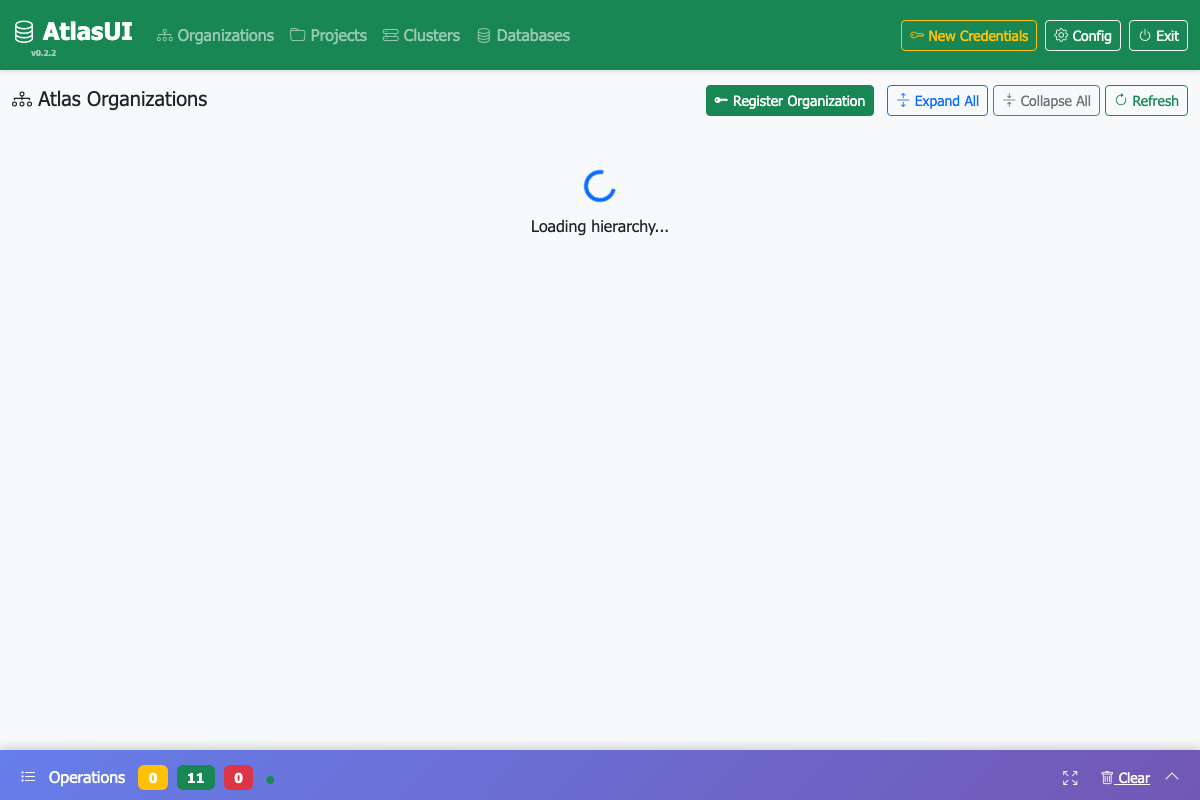
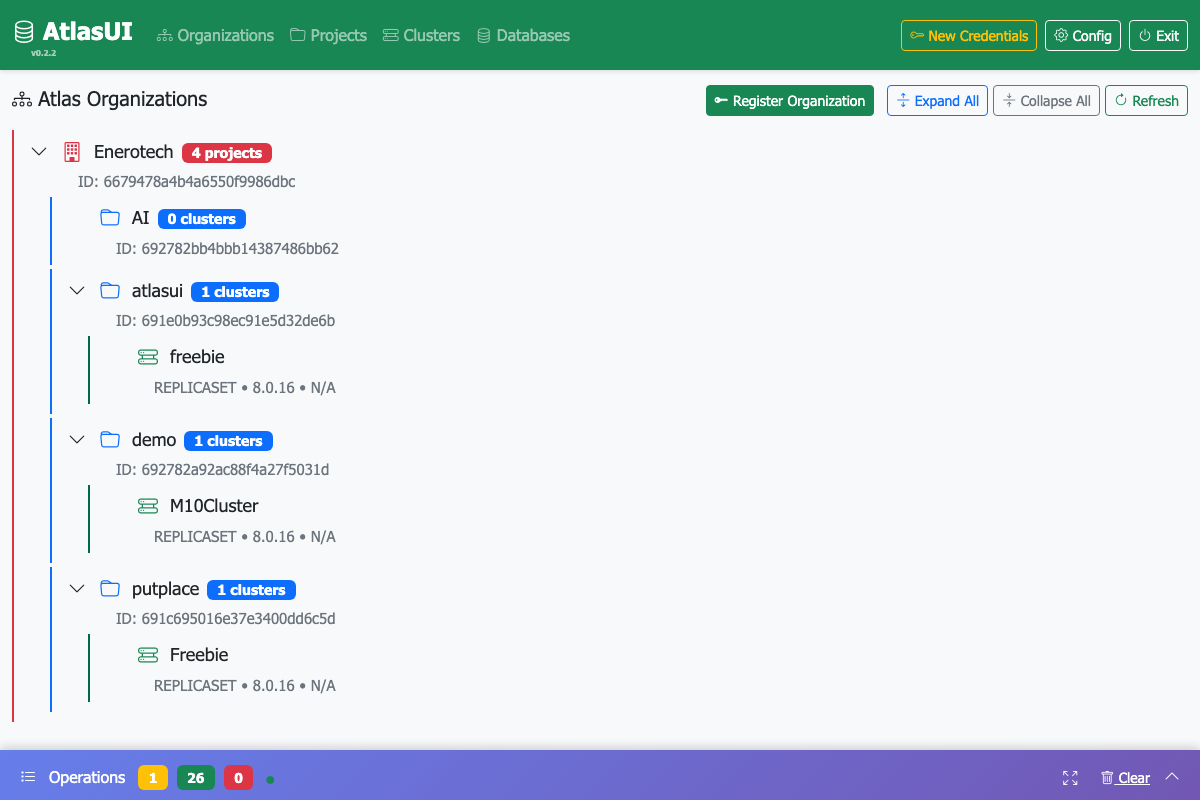
UI improvements: expanded tree view and modal backdrop fix
- Organizations page now opens with tree expanded by default
- Fix modal backdrop not being removed after cluster create/delete
- Update documentation screenshots with current data

🤖 Generated with [Claude Code](https://claude.com/claude-code)

diff --git a/atlasui/templates/all_clusters.html b/atlasui/templates/all_clusters.html
@@ -2207,8 +2207,15 @@ async function createCluster() {
         clusterConfig.mongoDBMajorVersion = mongoDBVersion;
     }
 
-    // Close the modal immediately
-    bootstrap.Modal.getInstance(document.getElementById('createClusterModal')).hide();
+    // Close the modal immediately and clean up backdrop
+    const createModalEl = document.getElementById('createClusterModal');
+    const createModalInstance = bootstrap.Modal.getInstance(createModalEl) || bootstrap.Modal.getOrCreateInstance(createModalEl);
+    createModalInstance.hide();
+    // Clean up any stale backdrops
+    document.querySelectorAll('.modal-backdrop').forEach(el => el.remove());
+    document.body.classList.remove('modal-open');
+    document.body.style.removeProperty('overflow');
+    document.body.style.removeProperty('padding-right');
 
     try {
         console.log('Creating cluster with config:', JSON.stringify(clusterConfig, null, 2));
@@ -2303,8 +2310,15 @@ async function deleteCluster() {
     // Hide error
     errorDiv.classList.add('d-none');
 
-    // Close the modal immediately
-    bootstrap.Modal.getInstance(document.getElementById('deleteClusterModal')).hide();
+    // Close the modal immediately and clean up backdrop
+    const deleteModalEl = document.getElementById('deleteClusterModal');
+    const deleteModalInstance = bootstrap.Modal.getInstance(deleteModalEl) || bootstrap.Modal.getOrCreateInstance(deleteModalEl);
+    deleteModalInstance.hide();
+    // Clean up any stale backdrops
+    document.querySelectorAll('.modal-backdrop').forEach(el => el.remove());
+    document.body.classList.remove('modal-open');
+    document.body.style.removeProperty('overflow');
+    document.body.style.removeProperty('padding-right');
 
     try {
         console.log('Deleting cluster:', deleteClusterData);

diff --git a/atlasui/templates/organizations.html b/atlasui/templates/organizations.html
@@ -247,6 +247,7 @@ async function loadHierarchy() {
         }
 
         renderTree();
+        expandAll();  // Expand tree by default
         loading.classList.add('d-none');
         tree.classList.remove('d-none');
 
